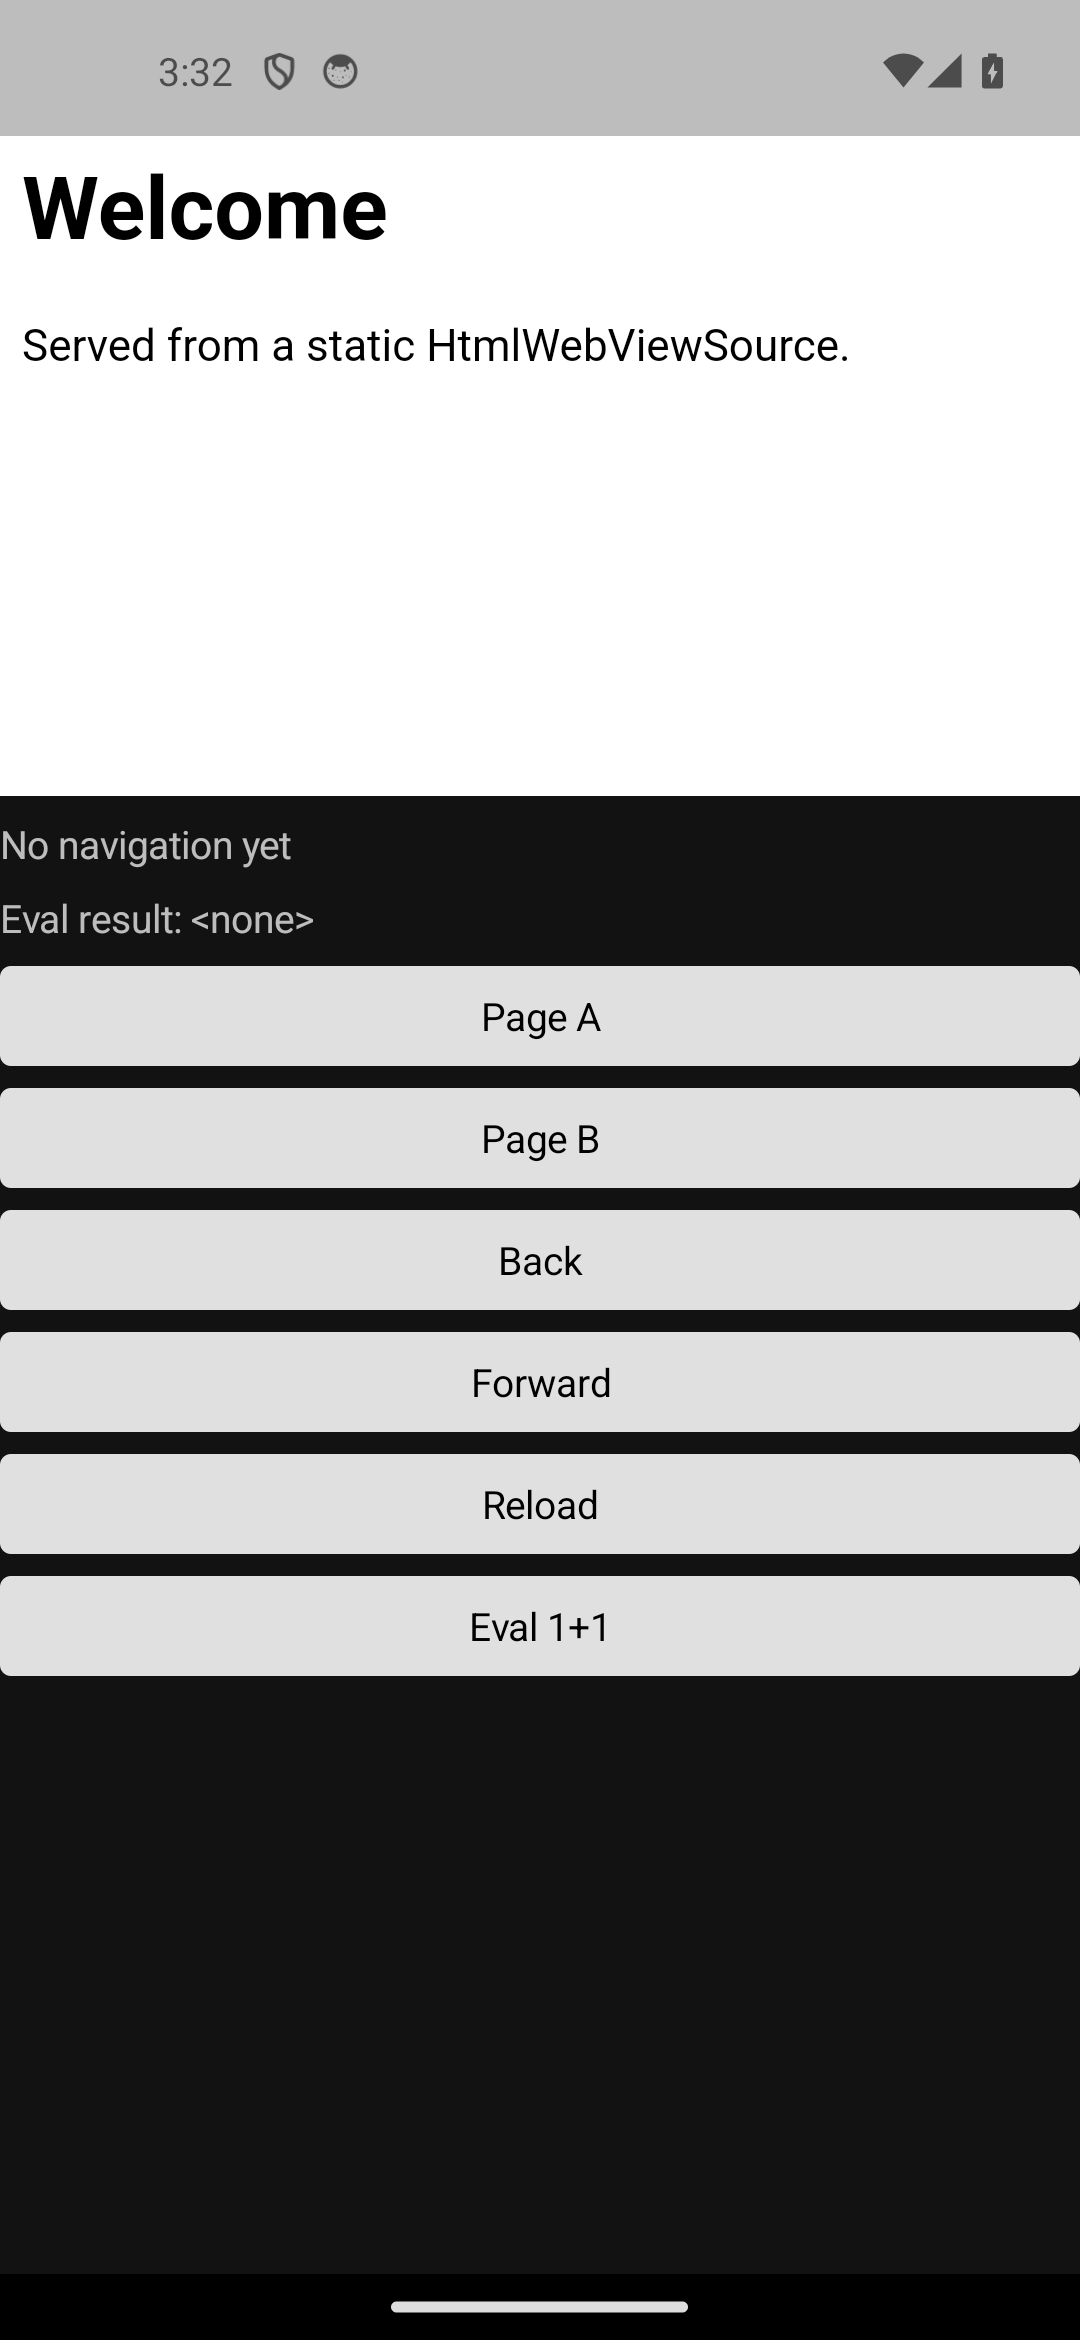
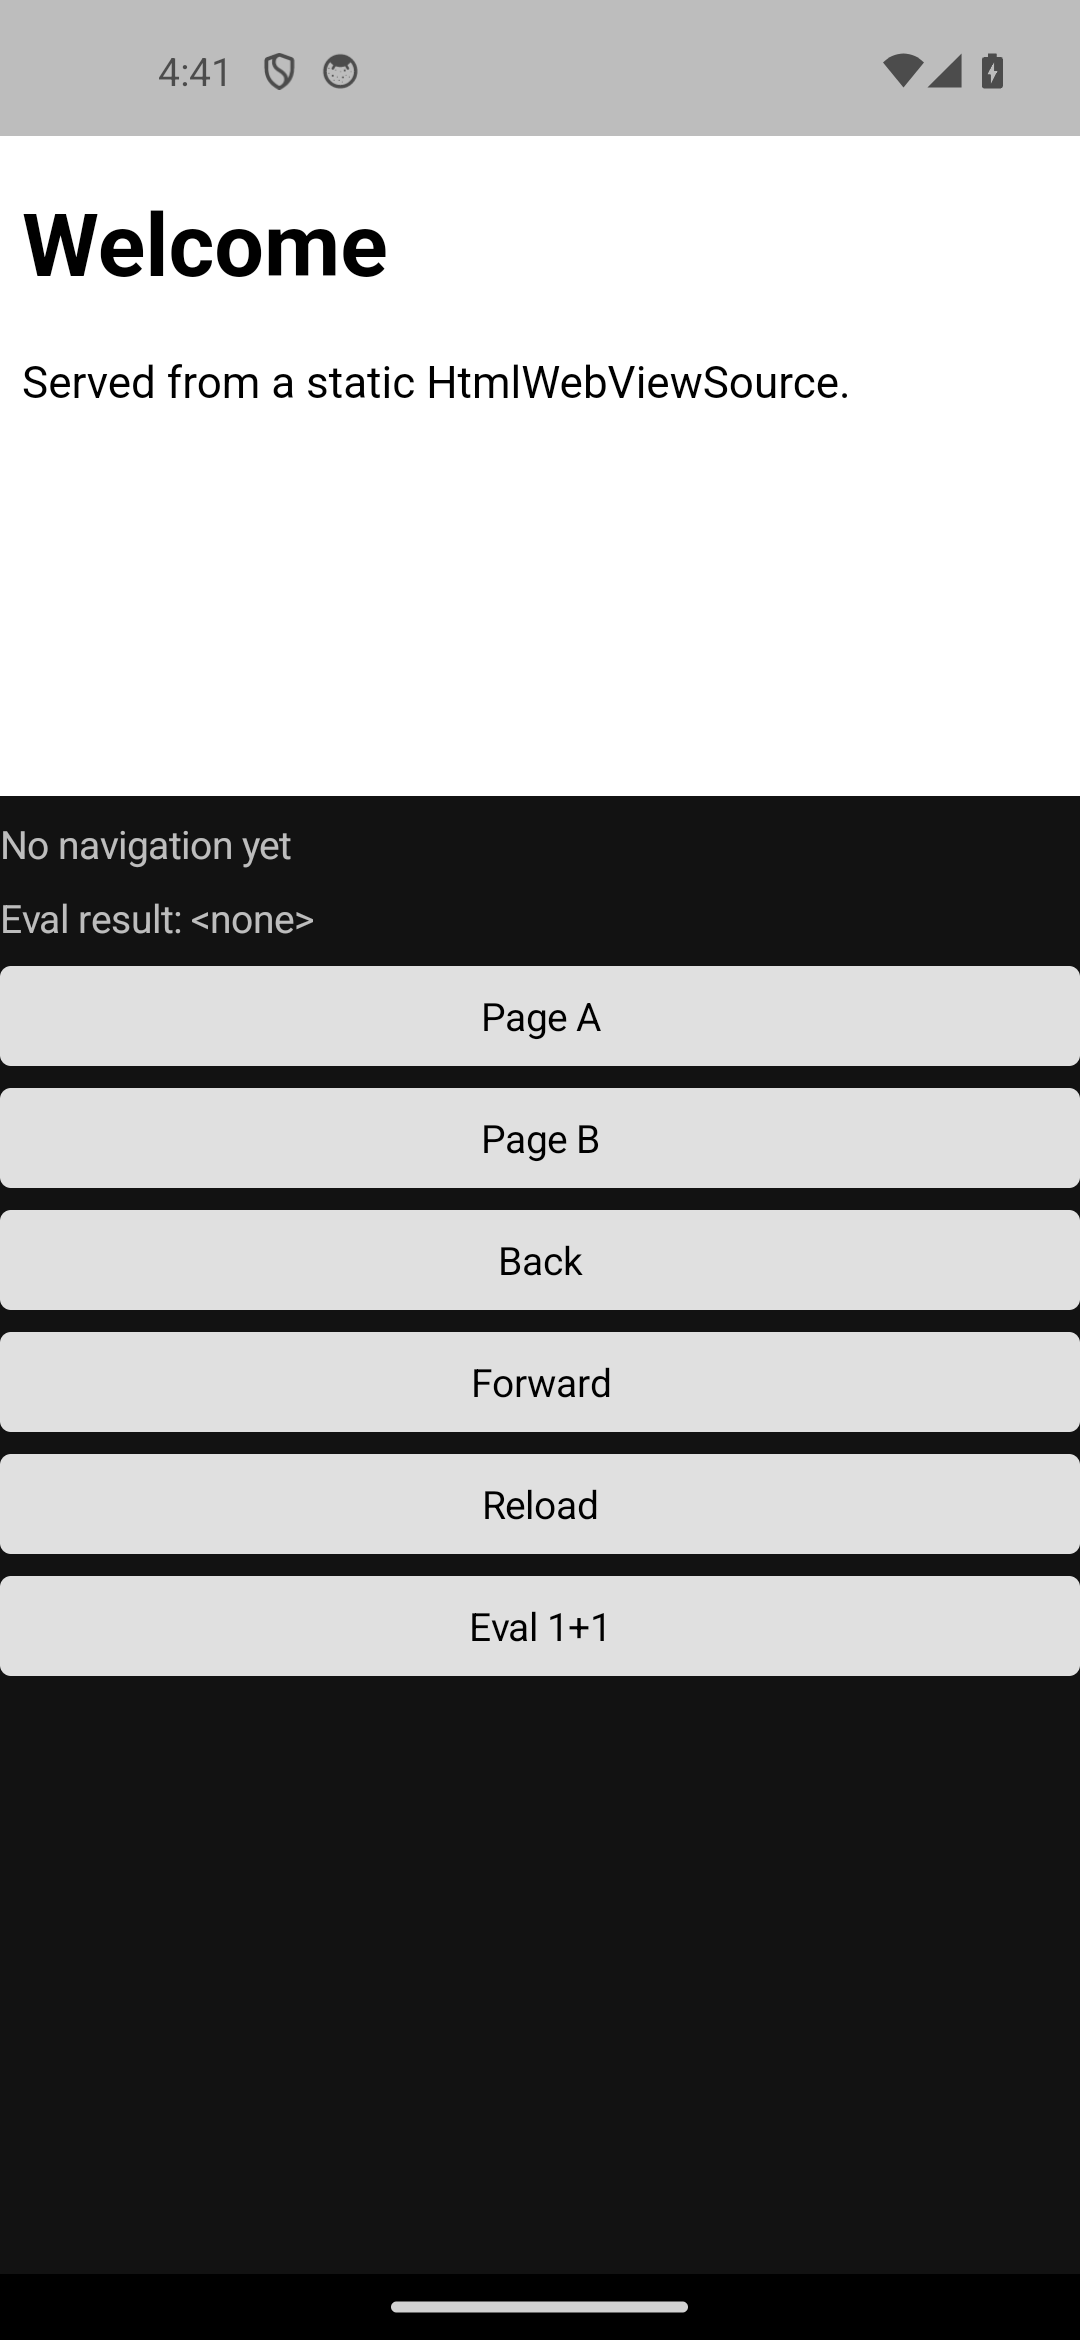
fix(android/parity): web_view <!DOCTYPE html> -> standards mode = GREEN both themes
The cpp gallery's inline HtmlWebViewSource omitted <!DOCTYPE html>, so Android's
WebView rendered the Welcome page in QUIRKS mode (different default font/box
metrics) -> a ~1.5% parity diff vs MAUI (whose welcome.html has the DOCTYPE).
The XAML twin already loads the DOCTYPE'd HTML and scored 1.0/0.0, proving the
fix. Adding the DOCTYPE: cpp android web_view 1.51% -> 0.12% light / 0.00% dark,
GREEN both themes. Isolated to the web_view page HTML; no other page affected.

Changed region(s): [[0.0, 0.0624, 0.3667, 0.1872], [0.3972, 0.1248, 0.7639, 0.1872]]

diff --git a/port/cpp/examples/gallery/pages/web_view_page.hpp b/port/cpp/examples/gallery/pages/web_view_page.hpp
@@ -151,7 +151,9 @@ namespace maui::samples
             browser_.set_source(std::make_shared<maui::controls::html_web_view_source>(
                 // <meta color-scheme> opts this WebView out of MAUI's DayNight dark-darkening (parity
                 // ruling 12, fix-both-sides): white in both themes, matching the shared web_view.xaml twin.
-                "<html><head><meta name=\"color-scheme\" content=\"light\">"
+                // <!DOCTYPE html> selects standards mode — MAUI's welcome.html has it, and without it the
+                // WebView renders in quirks mode (different default font/box metrics → a ~1.5% parity diff).
+                "<!DOCTYPE html><html><head><meta name=\"color-scheme\" content=\"light\">"
                 "<meta name=\"viewport\" content=\"width=device-width, initial-scale=1\"></head>"
                 "<body><h1>" +
                     heading + "</h1><p>Served from a static HtmlWebViewSource.</p></body></html>",

diff --git a/port/cpp/docs/comparison/README.md b/port/cpp/docs/comparison/README.md
@@ -5205,8 +5205,8 @@ Real .NET MAUI vs the C++ port vs the compile-time-XAML gallery, captured on the
 
 | Classification | Pixel-Perfect Score — C++ (C1/C3) | Pixel-Perfect Score — C++ &amp; XAML (C2/C4) |
 | --- | --- | --- |
-| 🟢 Match | 151 | 152 |
-| 🟡 Minor | 19 | 18 |
+| 🟢 Match | 152 | 152 |
+| 🟡 Minor | 18 | 18 |
 | 🔴 Major | 2 | 2 |
 | ⬛ Blank | 0 | 0 |
 | ⏳ Unreviewed | 0 | 0 |
@@ -7761,16 +7761,16 @@ Light: SSIM 0.9944, 0.18% pixels differ · Dark: SSIM 0.9945, 0.18% pixels diffe
 
 Light: SSIM 0.9943, 0.18% pixels differ · Dark: SSIM 0.9945, 0.18% pixels differ
 
-### 171. Web View — 🟡/🟢
+### 171. Web View — 🟢/🟢
 <sub>web_view</sub>
 
 <table><tr><th></th><th>MAUI</th><th>C++</th><th>C++ &amp; XAML</th></tr><tr><th>Light</th><td><img width="300px" src="captures/android/maui/web_view_light.png" /></td><td><img width="300px" src="captures/android/cpp/web_view_light.png" /></td><td><img width="300px" src="captures/android/xaml/web_view_light.png" /></td></tr><tr><th>Dark</th><td><img width="300px" src="captures/android/maui/web_view_dark.png" /></td><td><img width="300px" src="captures/android/cpp/web_view_dark.png" /></td><td><img width="300px" src="captures/android/xaml/web_view_dark.png" /></td></tr></table>
 
 a self-contained demo page for the W1-08 web_view vertical: a web_view loading a STATIC html_web_view_source (no network), back/forward/reload buttons over the handler-pushed CanGoBack/CanGoForward read-onlys, an &amp;quot;Eval 1+1&amp;quot; button driving t
 
-#### 🟡 Pixel-Perfect Score — C++ (C1/C3)
+#### 🟢 Pixel-Perfect Score — C++ (C1/C3)
 
-Light: SSIM 0.9625, 1.51% pixels differ · Dark: SSIM 0.9625, 1.51% pixels differ
+Light: SSIM 0.9999, 0.12% pixels differ · Dark: SSIM 1.0, 0.0% pixels differ
 
 #### 🟢 Pixel-Perfect Score — C++ &amp; XAML (C2/C4)
 
